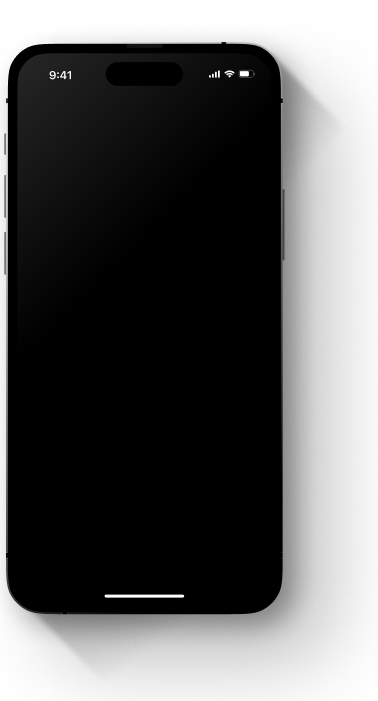
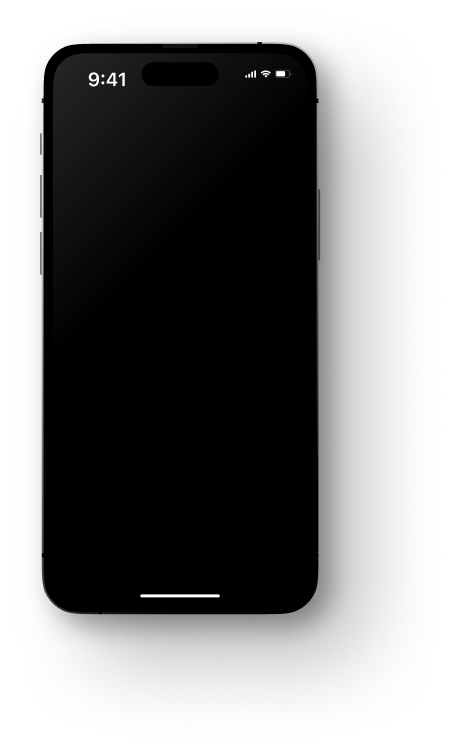
Ajustes de responsividade

Changed region(s): [[0.0, 0.0599, 0.9021, 0.9586], [0.4365, 0.03, 0.6402, 0.0599]]

diff --git a/creators-pay/index.html b/creators-pay/index.html
@@ -91,7 +91,11 @@
                     </h1>
 
                     <div class="d-lg-flex mt-lg-5 mt-4">
-                        <a class="btn primary me-lg-3" href="https://creators.llc/?newcreator=1" target="_blank">Gere seu contrato</a>
+                        <a class="btn primary me-lg-3" href="https://creators.llc/?newcreator=1" target="_blank">
+                            <span>
+                                Gere seu contrato
+                            </span>
+                        </a>
                         <a class="btn secondary mt-3 mt-lg-0" href="https://creators.llc/?newcreator=1" target="_blank">Como funciona</a>
                     </div>
                 </div>
@@ -112,7 +116,7 @@
                     </h2>
                     <a href="#step">Veja como funciona <img class="ms-3" src="./assets/image/arrow-bottom.svg" alt="" aria-hidden="true"></a>
                 </div>
-                <div class="col-lg-4 tabs mt-5 mt-lg-0">
+                <div class="col-9 col-lg-5 col-xxl-4 tabs mt-5 mt-lg-0">
 
                     <img src="./assets/image/bag-icon.svg" alt="" aria-hidden="true">
                     <ul class="nav nav-tabs mt-4" id="myTab" role="tablist">
@@ -135,7 +139,7 @@
                                 seu pagamento na data<br>
                                  combinada.</h3>
                         </div>
-                        <div class="tab-pane fade" id="profile" role="quem-contrata" aria-labelledby="quem-contrata-tab">
+                        <div class="tab-pane fade" id="quem-contrata" role="quem-contrata" aria-labelledby="quem-contrata-tab">
                             <h3>A certeza de que as entregas<br> 
                                 serão de alta qualidade, no<br> prazo estabelecido.</h3>
                         </div>
@@ -145,9 +149,9 @@
         </section>
 
         <section class="steps">
-            <div class="row justify-content-end">
+            <div class="row justify-content-xl-end justify-content-around">
                 <!--step 01-->
-                <div class="col-lg-5">
+                <div class="col-md-11 col-lg-5">
                     <p class="subtitle">1 de 3</p>
                     <div class="d-flex align-items-center">
                         <div class="number me-4 my-4">
@@ -168,18 +172,18 @@
                         </p>
                     </div>
                 </div>
-                <div class="col-lg-5">
-                    <img src="./assets/image/mobile.png" alt="" aria-hidden="true">
+                <div class="col-md-11 col-lg-5">
+                    <img class="mobile" src="./assets/image/mobile.png" alt="" aria-hidden="true">
                 </div>
 
                 <!--Step 02-->
-                <div class="col-lg-5">
-                    <img src="./assets/image/mobile.png" alt="" aria-hidden="true">
+                <div class="col-md-11 col-lg-5 d-none d-lg-block">
+                    <img class="mobile" src="./assets/image/mobile.png" alt="" aria-hidden="true">
                 </div>
-                <div class="col-lg-5">
+                <div class="col-md-11 col-lg-5">
                     <p class="subtitle">2 de 3</p>
                     <div class="d-flex align-items-center">
-                        <div class="number me-lg-4 my-4">
+                        <div class="number me-4 my-4">
                             <p>2</p>
                         </div>
                         <h3>Contrato<br> gerado</h3>
@@ -194,29 +198,38 @@
                         para ambas as partes.
                     </p>
                 </div>
+                <div class="col-md-11 col-lg-5 d-block d-lg-none">
+                    <img class="mobile" src="./assets/image/mobile.png" alt="" aria-hidden="true">
+                </div>
             </div>
             <div class="row justify-content-center">
                 <!--step 03-->
-                <div class="col-lg-8">
+                <div class="col-lg-10 col-xl-8">
                     <p class="subtitle">3 de 3</p>
                     <div class="d-flex align-items-center">
-                        <div class="number me-4 mt-4 mb-5">
+                        <div class="number me-4 my-4">
                             <p>3</p>
                         </div>
                         <!-- <img src="./assets/image/step-three.png" alt="Passo 1"> -->
                         <h3>Cobrança e<br> Pagamento</h3>
                     </div>
                     <div class="row">
-                        <div class="col-lg-6">
-                            <img class="mb-3" src="./assets/image/bag-icon.svg" alt="" aria-hidden="true" width="50">
+                        <div class="col-md-9 col-lg-6 mt-4">
+                            <div class="d-flex align-items-center my-4">
+                                <img class="me-3" src="./assets/image/bag-icon.svg" alt="" aria-hidden="true" width="50">
+                                <h4>Para Contratante</h4>
+                            </div>
                             <p>
                                 A cobrança é acrescida de 12% referentes<br> 
                                 ao custo de serviço da plataforma. É<br> 
                                 possível faturar em Real, Euro ou Dólar.
                             </p>
                         </div>
-                        <div class="col-lg-6">
-                            <img class="mb-3" src="./assets/image/wand-icon.svg" alt="" aria-hidden="true" width="50">
+                        <div class="col-md-9 col-lg-6">
+                            <div class="d-flex align-items-center my-4">
+                                <img class="me-3" src="./assets/image/wand-icon.svg" alt="" aria-hidden="true" width="50">
+                                <h4>Para Profissional</h4>
+                            </div>
                             <p>
                                 O pagamento é 100% garantido conforme<br> 
                                 a proposta – ocorre no prazo de 30 dias,<br> 
@@ -235,8 +248,14 @@
                         Crie sua conta no Creators Pay
                     </h2>
                     <div class="d-lg-flex my-5">
-                        <a class="btn primary me-3" href="https://creators.llc/?newclient=1" target="_blank">Criar perfil de Contratante</a>
-                        <a class="btn primary mt-3 mt-lg-0" href="https://creators.llc/?newcreator=1" target="_blank">Criar perfil de Profissional</a>
+                        <a class="btn primary me-3" href="https://creators.llc/?newclient=1" target="_blank">
+                            <span>Criar perfil de Contratante</span>
+                        </a>
+                        <a class="btn primary mt-3 mt-lg-0" href="https://creators.llc/?newcreator=1" target="_blank">
+                            <span>
+                                Criar perfil de Profissional
+                            </span>
+                        </a>
                     </div>
                     <img src="./assets/image/google-startups.png" alt="Google for startups acredita nisso">
                 </div>

diff --git a/creators-pay/style.css b/creators-pay/style.css
@@ -14,7 +14,7 @@ p, input, select { font-family: 'SF Pro Display'; }
 
 input, select { font-size: 18px; line-height: 21px; color: #5D6472; }
 
-body { background: #111; }
+body { background: #111; overflow-x: hidden; }
 
 a { text-decoration: none; color: #fff; }
 
@@ -38,11 +38,14 @@ header canvas#spline { height: 500px; }
 .btn { padding: 16px 40px; font-size: 14px; font-weight: 700; font-size: 18px; line-height: 22px; color: #fff; min-width: 200px; border-radius: 100px; text-align: center; }
 
 .primary { background: linear-gradient(275.83deg, #9757FF -22.92%, #3300FF 92.78%); }
+.primary:hover { background: #fff; }
+.primary:hover span { background-image: linear-gradient(275.83deg, #9757FF -22.92%, #3300FF 92.78%); background-clip: text; -webkit-background-clip: text; /* Alguns navegadores precisam do prefixo */ -webkit-text-fill-color: transparent; }
 
 .secondary { background: #212121; border-radius: 100px; }
+.secondary:hover { color: #212121; background: #fff; }
 
 .how-works { margin: 100px 0; }
-.how-works .tabs { background: #0A0A0A; border-radius: 16px; padding: 60px 40px; height: 400px; }
+.how-works .tabs { background: #0A0A0A; border-radius: 16px; padding: 60px 0 0 40px; height: 400px; }
 .how-works .tabs .nav-tabs { border: 0; }
 .how-works .tabs .nav-tabs .nav-item:first-child { margin: 0 16px 0 0; }
 .how-works .tabs .nav-tabs .nav-item .for-myProgress { width: 100%; background-color: #5C688D; margin-bottom: 20px; }
@@ -55,6 +58,7 @@ header canvas#spline { height: 500px; }
 .how-works a { font-size: 20px; line-height: 24px; }
 
 .steps h3 { font-size: 39px; line-height: 38px; color: #9776FF; }
+.steps h4 { font-size: 24px; color: #FFFFFF; }
 .steps p { font-family: 'SF Pro Bold'; font-weight: 700; font-size: 18px; line-height: 32px; color: #EFEBFF; }
 .steps .subtitle { position: relative; top: 1rem; font-weight: 700; font-size: 18px; color: #FFFFFF; opacity: 0.6; }
 .steps .number { background: linear-gradient(138.79deg, #333333 -1.06%, #1F1F1F 99.2%); box-shadow: inset -1px -1px 4px rgba(98, 98, 98, 0.08), inset 2px 2px 4px rgba(136, 136, 136, 0.18); border-radius: 10px; display: flex; align-items: center; justify-content: center; width: 88px; padding: 25px 0 10px; }
@@ -87,6 +91,13 @@ label.ff-item-qs.ff-qs-html { display: none !important; }
 
 iframe .m7w29c.O8VmIc.tIvQIf { display: none !important; }
 
+@media only screen and (max-width: 1200px) { br { display: none; }
+  .btn { font-size: 16px; }
+  .how-works .tabs .nav-tabs .nav-link { font-size: 18px; }
+  .cta { padding: 100px 0 50px; }
+  .cta h2 br { display: block; }
+  .faq .accordion { width: 80%; }
+  .faq .accordion h2 br { display: block; } }
 @media only screen and (max-width: 820px) { header { padding: 40px 0; }
   header .menu { padding: 0 0 80px; }
   header .menu button.navbar-toggler { background: linear-gradient(284.09deg, #9757FF -1.11%, #3300FF 193.48%); border: none; border-radius: 50%; padding: 10px; }
@@ -97,10 +108,13 @@ iframe .m7w29c.O8VmIc.tIvQIf { display: none !important; }
   header .navbar-expand-lg .navbar-collapse .btn-area { display: grid; float: right; }
   header .navbar-expand-lg .navbar-collapse .btn-area .btn { background: transparent; text-align: right; padding: 18px 8px 18px 0; margin-right: 0; font-size: 24px; line-height: 16px; }
   header .navbar-expand-lg .navbar-collapse .btn-area .btn.purple { background: #7553E2; text-align: center; margin-top: 18px; }
+  .how-works .tabs { padding: 60px 40px 0; }
+  .steps .mobile { margin: 0 auto; display: block; }
+  .faq { padding: 50px 0 0; }
+  .faq .accordion { width: 100%; }
   footer { margin-top: 100px; }
   footer .row .list-terms a { margin: 0 20px 0 0; } }
 @media only screen and (max-width: 766px) { .btn { min-width: 100%; }
-  br { display: none; }
   header { padding: 0; }
   header .menu { background: rgba(15, 15, 15, 0.7); backdrop-filter: blur(12.5px); position: fixed; top: 0; left: 0; padding: 18px; z-index: 10; width: 100%; }
   header .menu .container { padding: 0; }
@@ -109,9 +123,12 @@ iframe .m7w29c.O8VmIc.tIvQIf { display: none !important; }
   header .row h1 { font-weight: 700; font-size: 30px; line-height: 38px; }
   header h2 { display: none; }
   .how-works { margin: 50px 0; }
-  .how-works .tabs { padding: 40px 24px; height: 320px; }
-  .how-works .tabs .nav-tabs .nav-link { font-size: 18px; }
+  .how-works .tabs { padding: 40px 24px; height: 330px; width: 90%; }
+  .how-works .tabs .nav-tabs .nav-link { font-size: 16px; }
+  .how-works .tabs .tab-content h3 { font-size: 24px; }
   .cta { padding: 60px 0 50px; }
+  .cta h2 br { display: none; }
+  .step .number:last-child { width: 120px; }
   .faq { padding: 50px 0 0; }
   .faq .accordion { width: 100%; }
   .faq br { display: block; }

diff --git a/creators-pay/assets/scss/style.scss b/creators-pay/assets/scss/style.scss
@@ -2,6 +2,7 @@
 
 body{
     background: #111;
+    overflow-x: hidden;
 }
 
 a{
@@ -97,11 +98,27 @@ header{
 
 .primary{
     background: linear-gradient(275.83deg, #9757FF -22.92%, #3300FF 92.78%);
+
+
+    &:hover{
+        background: #fff;
+        span{
+            background-image: linear-gradient(275.83deg, #9757FF -22.92%, #3300FF 92.78%);
+            background-clip: text;
+            -webkit-background-clip: text; /* Alguns navegadores precisam do prefixo */
+            -webkit-text-fill-color: transparent;
+        }
+    }
 }
 
 .secondary{
     background: #212121;
     border-radius: 100px;
+
+    &:hover{
+        color: #212121 ;
+        background: #fff;
+    }
 }
 
 
@@ -111,7 +128,7 @@ header{
     .tabs{
         background: #0A0A0A;
         border-radius: 16px;
-        padding: 60px 40px;
+        padding: 60px 0 0 40px;
         height: 400px;
 
         .nav-tabs{
@@ -180,6 +197,12 @@ header{
         font-size: 39px;
         line-height: 38px;
         color: #9776FF;
+    }
+
+    h4{
+        font-size: 24px;
+        color: #FFFFFF;
+
     }
 
     p{
@@ -358,6 +381,48 @@ iframe{
     }
 }
 
+//ipad pro, tall desktop//
+
+@media only screen and (max-width: 1200px){
+    br{
+        display: none;
+    }
+
+    .btn{
+        font-size: 16px;
+    }
+
+    .how-works{
+        .tabs{
+            .nav-tabs{
+                .nav-link{
+                    font-size: 18px;
+                }
+            }
+        }
+    }
+
+    .cta{
+        padding: 100px 0 50px;
+        h2{
+            br{
+                display: block;
+            }
+        }
+    }
+
+    .faq{
+        .accordion{
+            width: 80%;
+             h2{
+                br{
+                    display: block;
+                }
+             }
+        }
+    }
+}
+
 //ipad, ipad air, ipad mini
 
 @media only screen and (max-width: 820px){
@@ -419,6 +484,26 @@ iframe{
         }
     }
 
+    .how-works{
+        .tabs {
+            padding: 60px 40px 0;
+        }
+    }
+
+    .steps{
+        .mobile{
+            margin: 0 auto;
+            display: block;
+        }
+    }
+
+    .faq{
+        padding: 50px 0 0;
+        .accordion {
+            width: 100%;
+        }
+    }
+
     footer{
         margin-top: 100px;
 
@@ -441,9 +526,6 @@ iframe{
         min-width: 100%;
     }
 
-    br{
-        display: none;
-    }
 
     header {
         padding: 0;
@@ -491,10 +573,17 @@ iframe{
 
         .tabs{
             padding: 40px 24px;
-            height: 320px;
+            height: 330px;
+            width: 90%;
             .nav-tabs{
                 .nav-link{
-                    font-size: 18px;
+                    font-size: 16px;
+                }
+            }
+
+            .tab-content{
+                h3{
+                    font-size: 24px;
                 }
             }
         }
@@ -502,6 +591,20 @@ iframe{
 
     .cta {
         padding: 60px 0 50px;
+
+        h2{
+            br{
+                display: none;
+            }
+        }
+    }
+
+    .step{
+        .number{
+            &:last-child{
+                width: 120px;
+            }
+        }
     }
 
     .faq{
